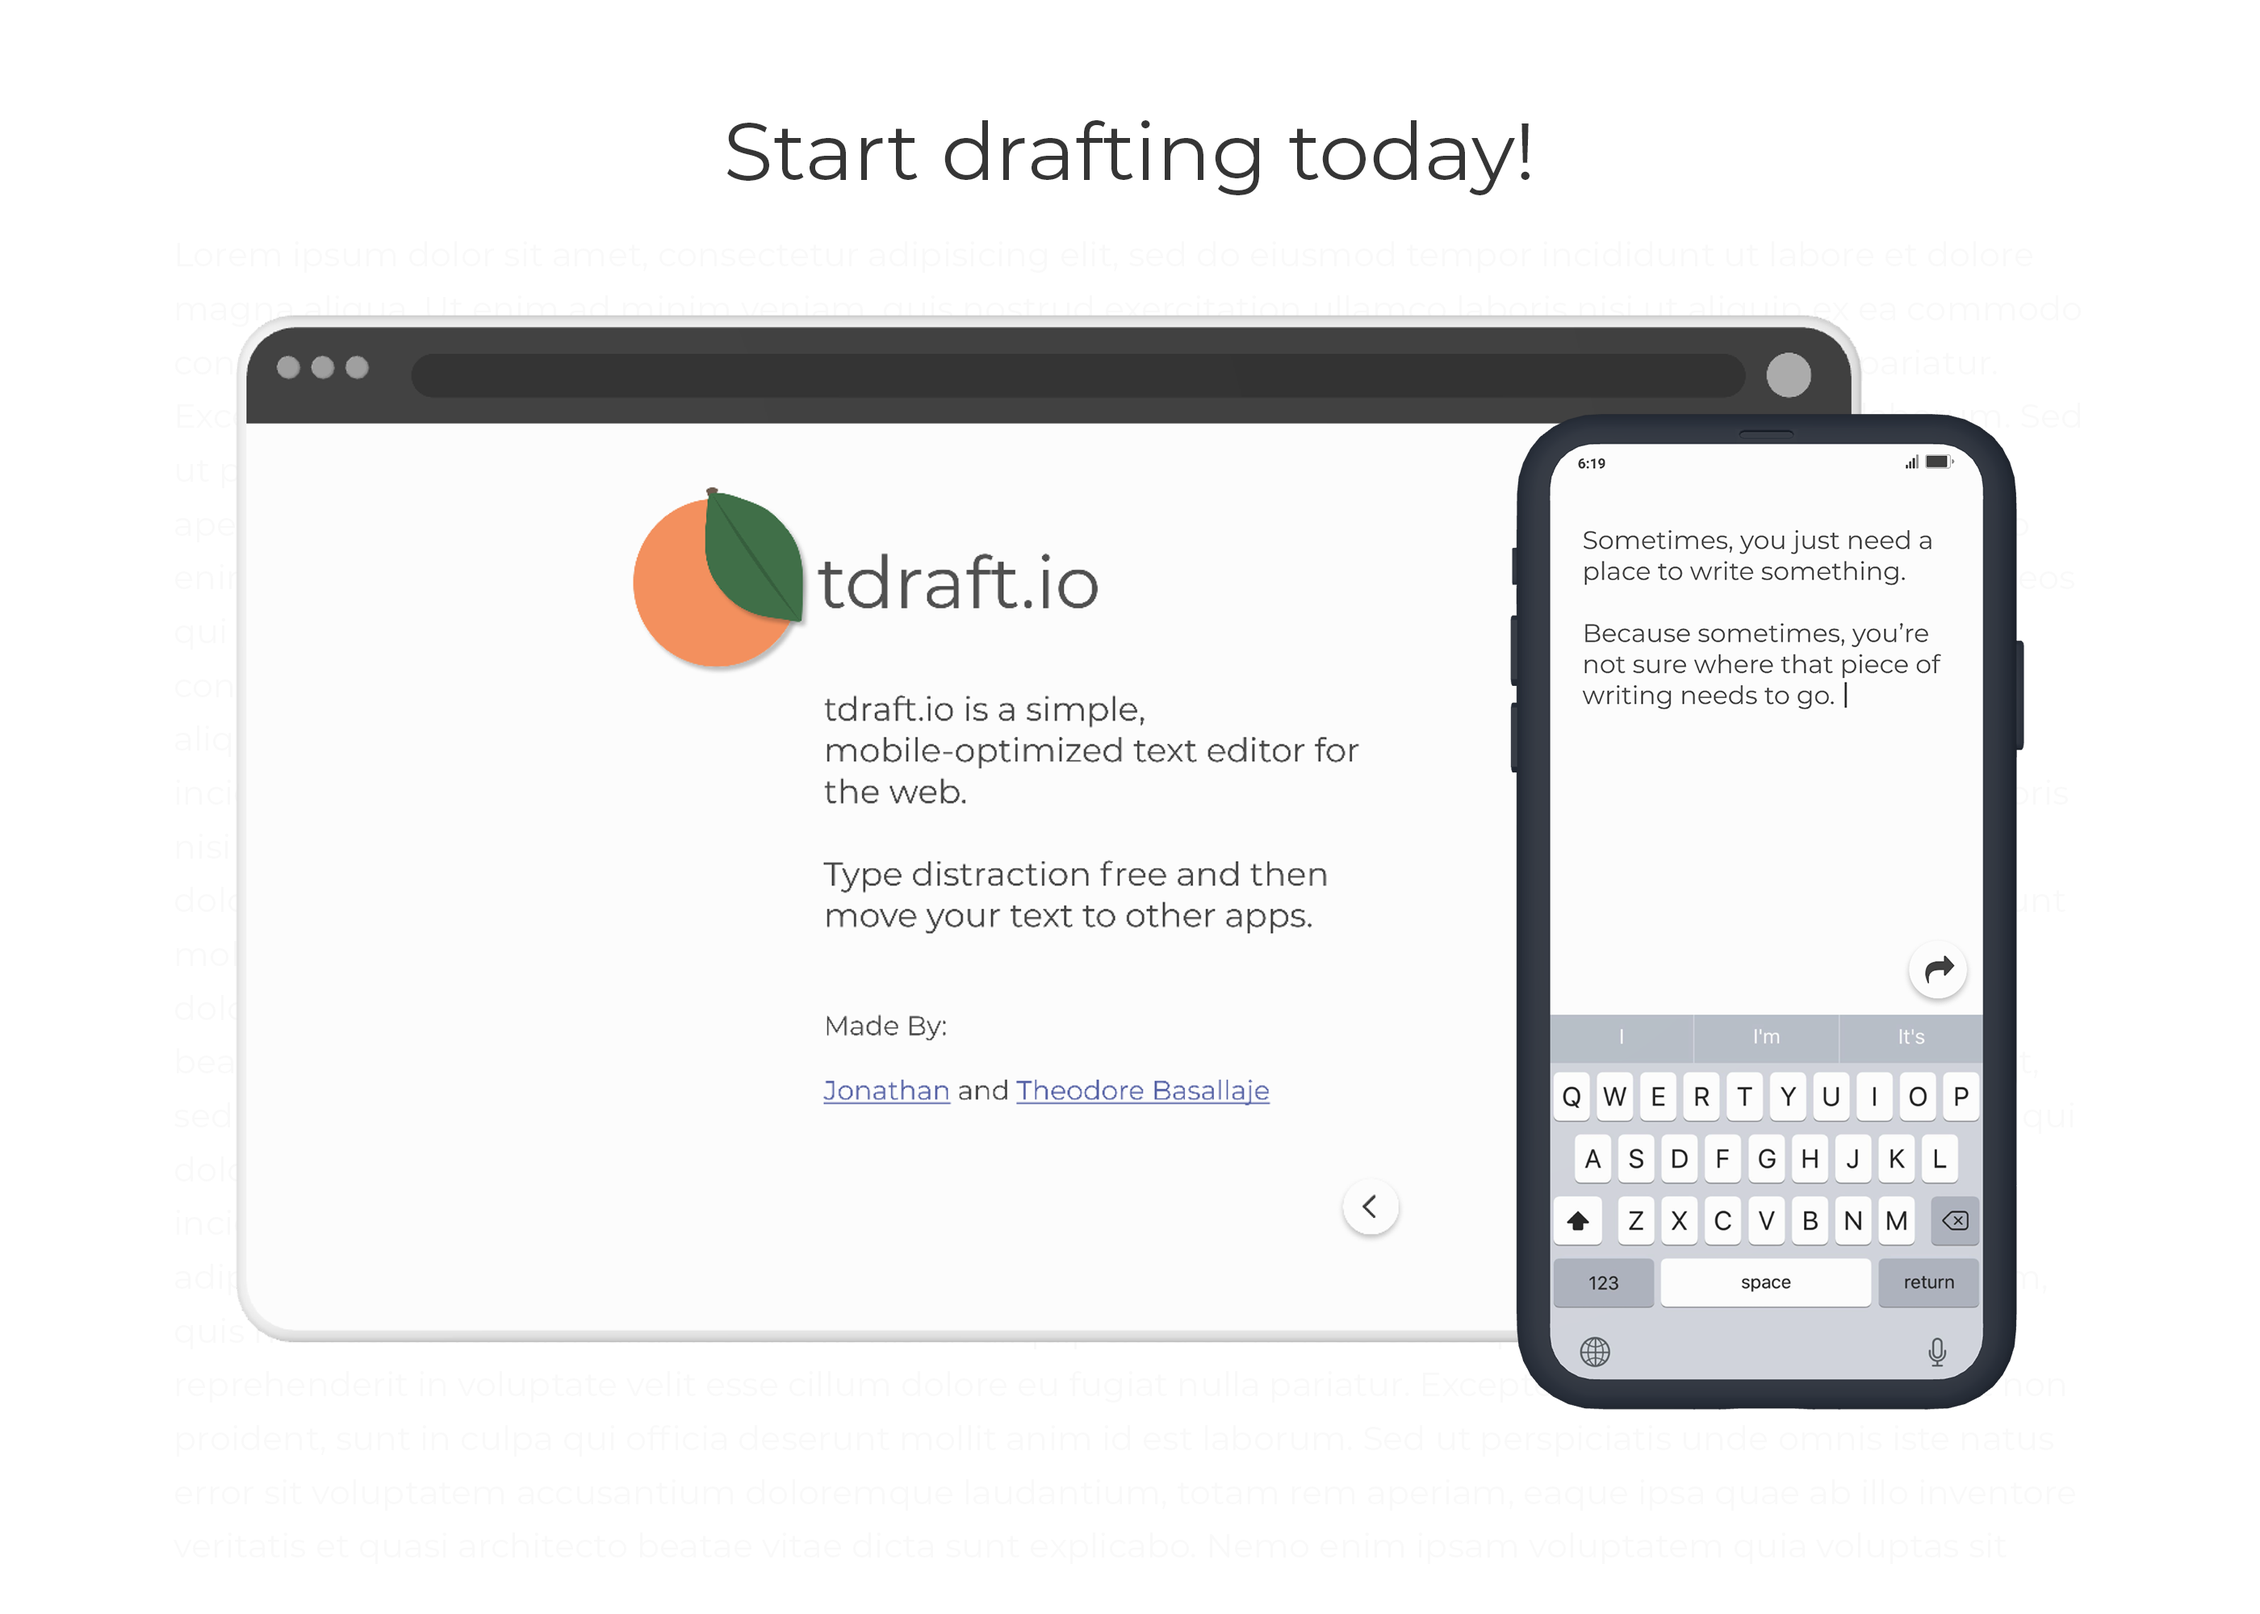
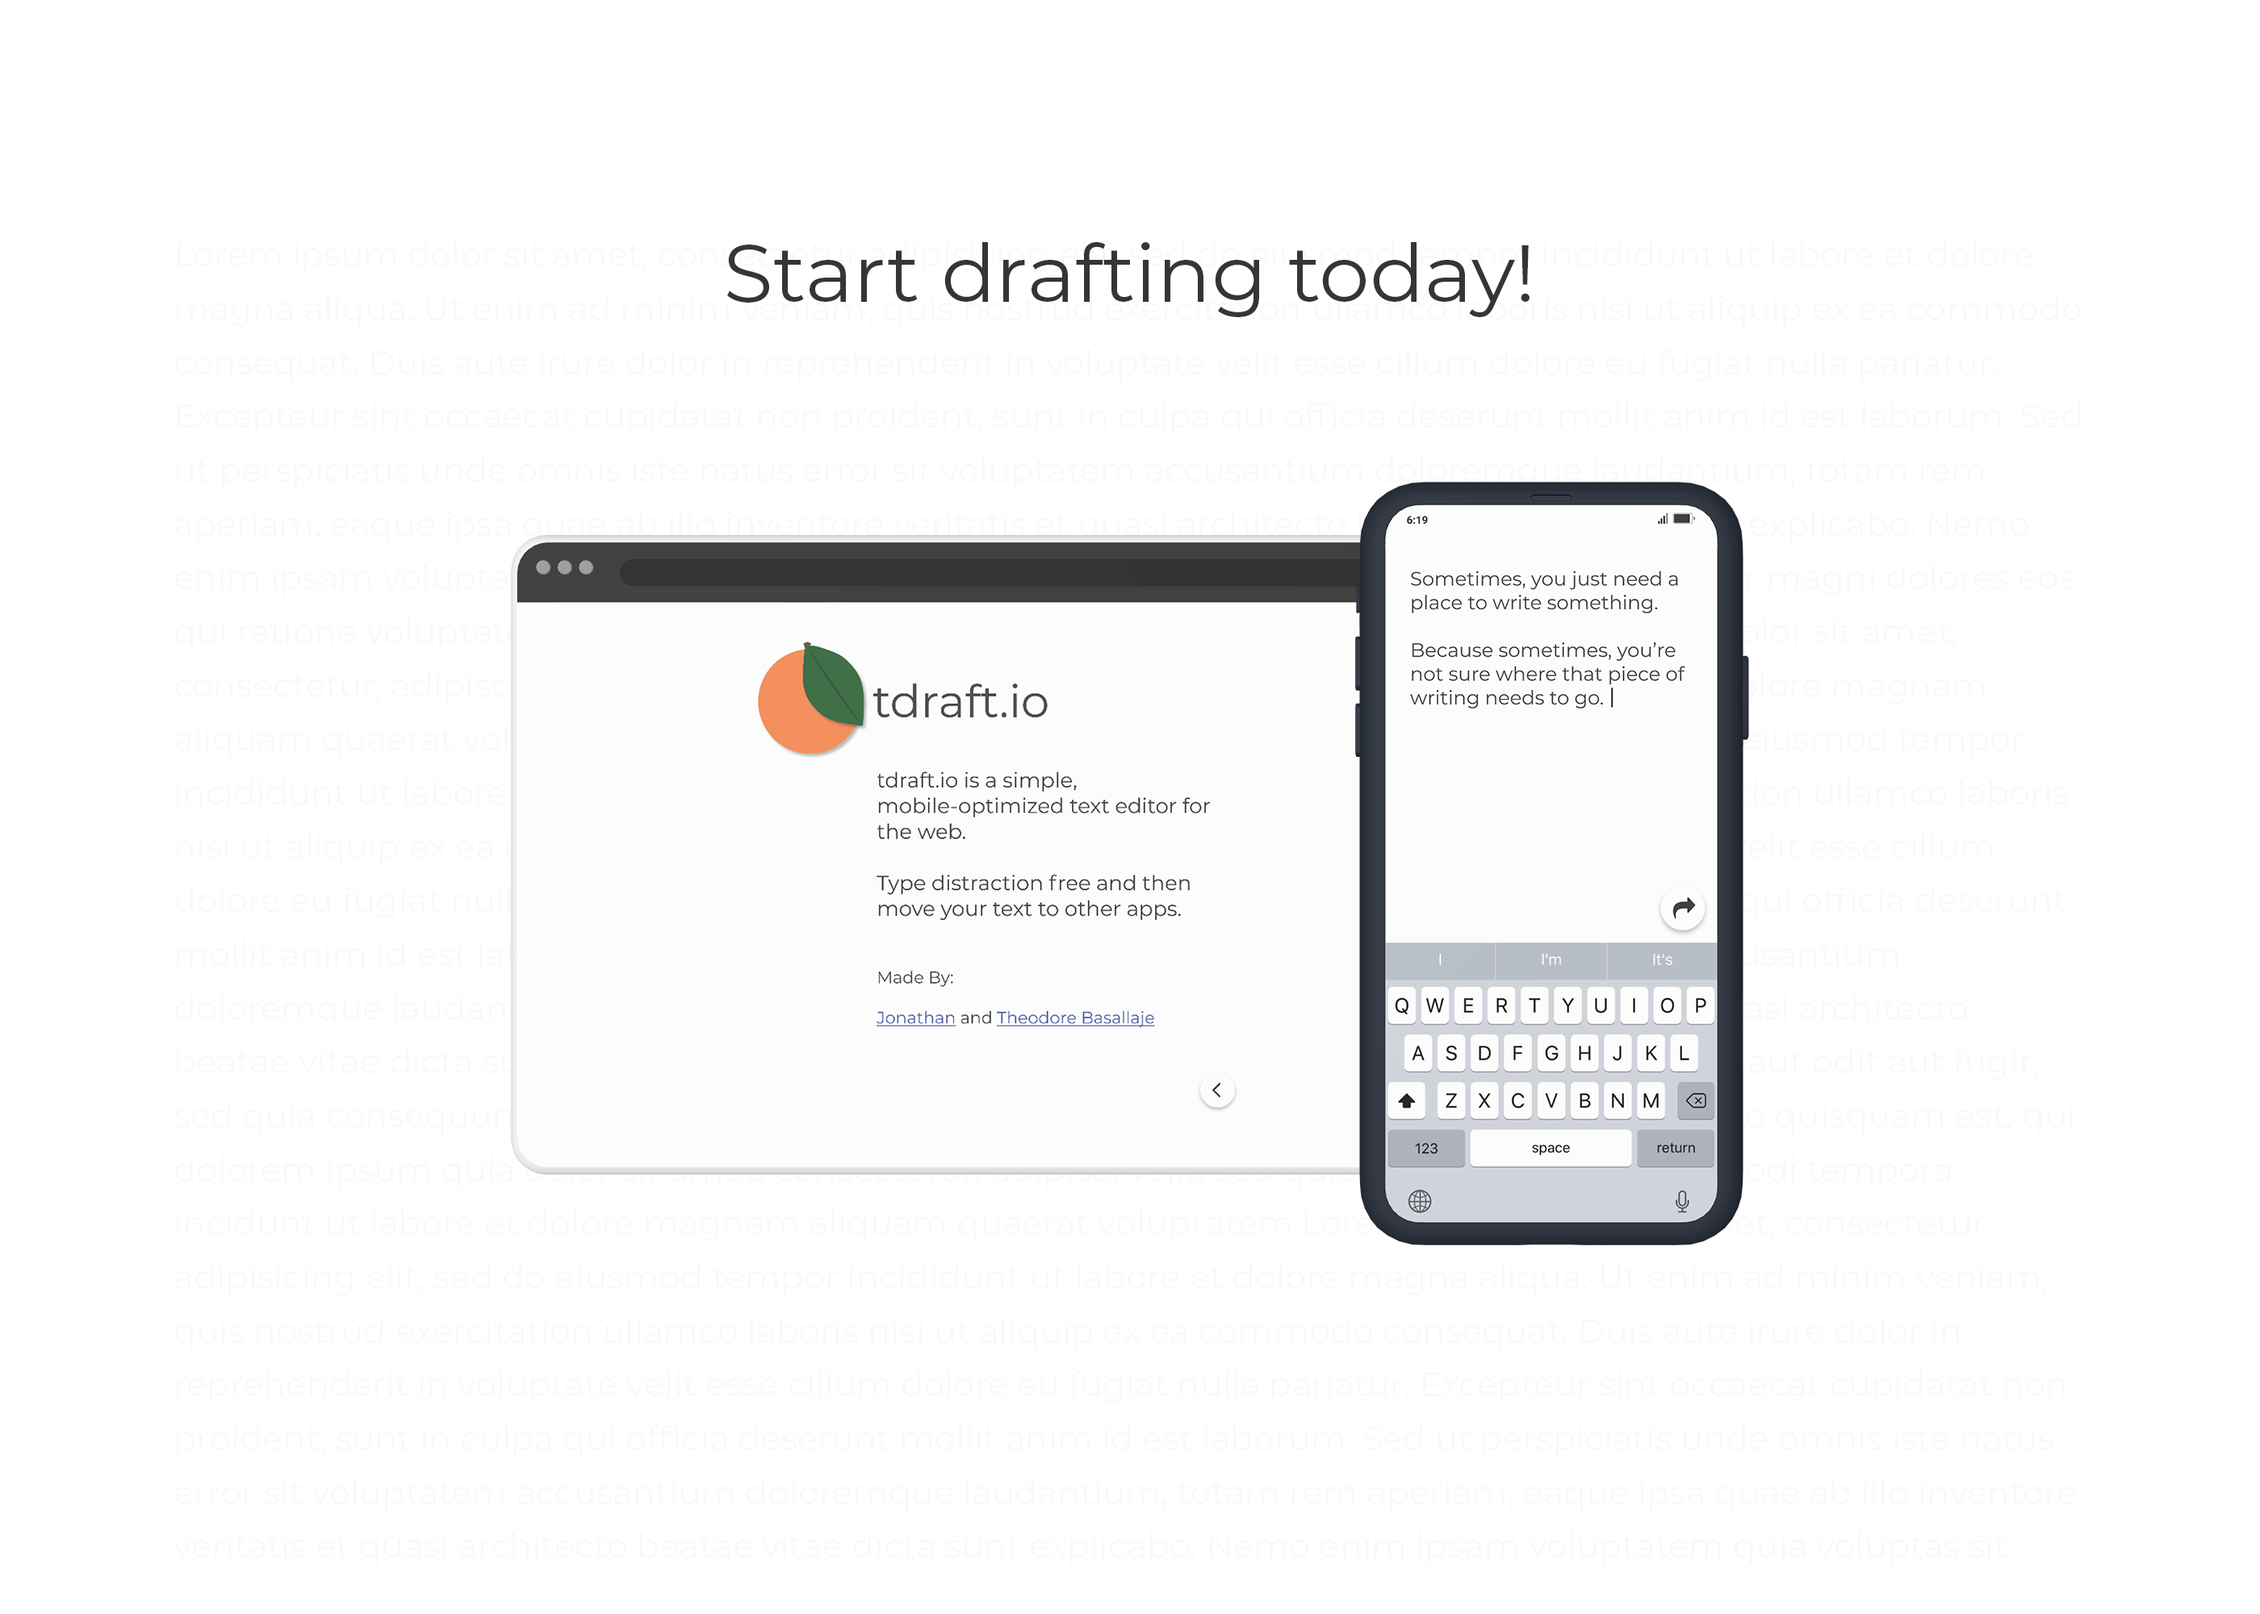
Mobile optimizations on project page

Changed region(s): [[0.0932, 0.155, 0.9011, 0.899], [0.3107, 0.062, 0.6836, 0.124], [0.3729, 0.62, 0.5593, 0.682]]

diff --git a/2.html b/2.html
@@ -14,16 +14,16 @@
 
 <body>
     <div class="gallery cardAnimate card">
-		<img width="90%" src="images/4.png">
+		<img class="hero" src="images/4.png">
 		<img class="responsive" src="images/5.png">
 		<a href="https://www.figma.com/proto/2ys56D7sZSrHmCDNL1uArV/Mobile?node-id=1%3A3&scaling=scale-down"
 			target="_blank"><img style="height: 50px; margin-bottom: 10px; margin-top: 50px;" src="images/figma.png"></a>
 		<p><a href="https://www.figma.com/proto/2ys56D7sZSrHmCDNL1uArV/Mobile?node-id=1%3A3&scaling=scale-down"
-			target="_blank">Click here for an interactable prototype made in Figma</a></p>
-		<img width="90%" src="images/6.png">
-		<img width="90%" src="images/7.png">
+			target="_blank">Click here for a Figma prototype</a></p>
+		<img class="hero" src="images/6.png">
+		<img class="hero" src="images/7.png">
 		<a href="https://tdraft.io/#/"
-			target="_blank"><img style="height: 50px; margin-bottom: 10px; margin-top: 50px;" src="images/tdraft_logo.png"></a>
+			target="_blank"><img style="height: 50px; margin-bottom: 10px;" src="images/tdraft_logo.png"></a>
 		<p><a href="https://tdraft.io/#/"
 			target="_blank">Click here to visit tdraft.io</a></p>
     </div>

diff --git a/index.html b/index.html
@@ -25,14 +25,14 @@
 	<div class="cardAnimate card">
 		<h2 id="1" style="margin-top: 200px;">Writ.ink</h2>
 		<p>Writ.ink is a content platform for text.</p>
-		<a href="1.html"><img class="hero" src="images/Writ_hero.png"></a>
+		<a href="1.html"><img class="cover" src="images/Writ_hero.png"></a>
 	</div>
 
 	<!-- Project #2 -->
 	<div class="cardAnimate card">
 		<h2 id="2" style="margin-top: 200px;">tdraft.io</h2>
 		<p>tdraft.io is a mobile optimized text editor in the browser.</p>
-		<a href="2.html"><img class="hero" src="images/tdraft_hero.png"></a>
+		<a href="2.html"><img class="cover" src="images/tdraft_hero.png"></a>
 	</div>
 
 	<!-- Background in Graphic Design -->

diff --git a/style.css b/style.css
@@ -102,9 +102,13 @@ p
 	box-shadow:0px 5px 12px grey;
   }
 
-.hero{
+.cover{
 	height: 500px;
 }  
+
+.hero{
+	max-width: 180%;
+}
 
 .liImage 
 {
@@ -118,4 +122,10 @@ p
 	width: 23px;
     height: 23px;
     padding: 16px;
+ }
+
+ @media (min-width: 600px){
+	.hero{
+		max-width: 90%;
+	}
  }
